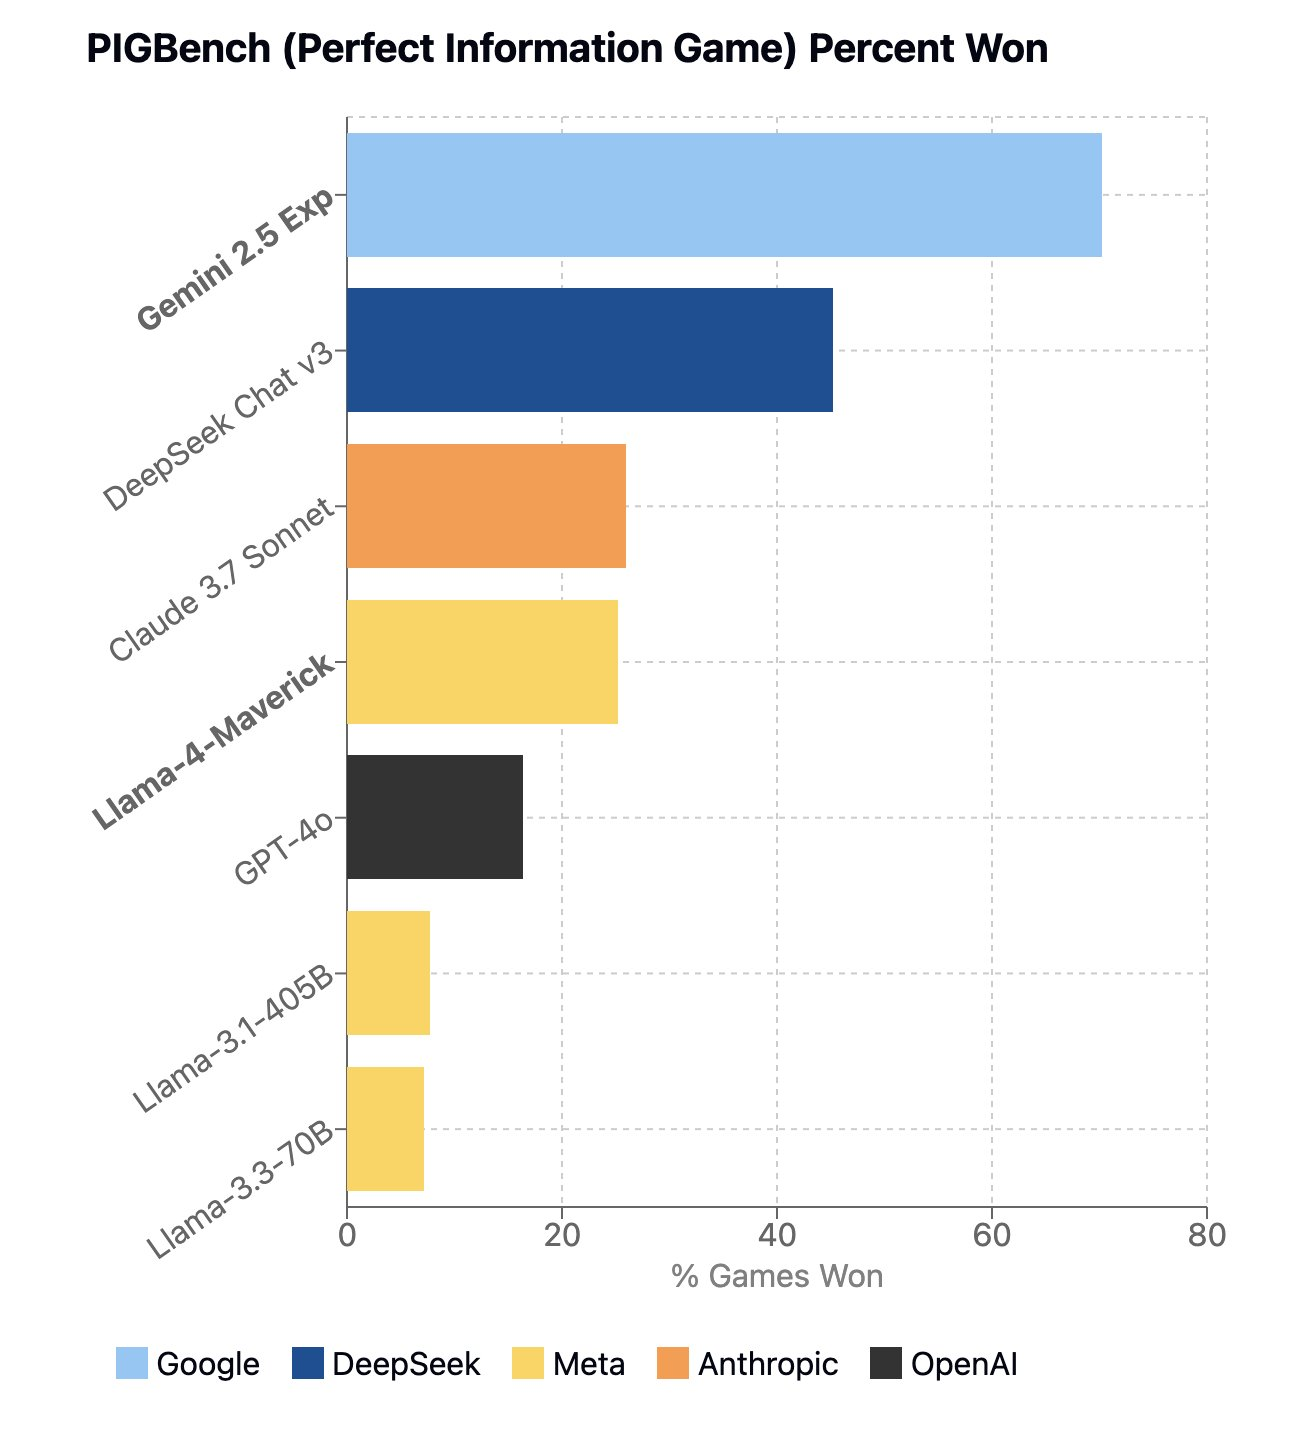
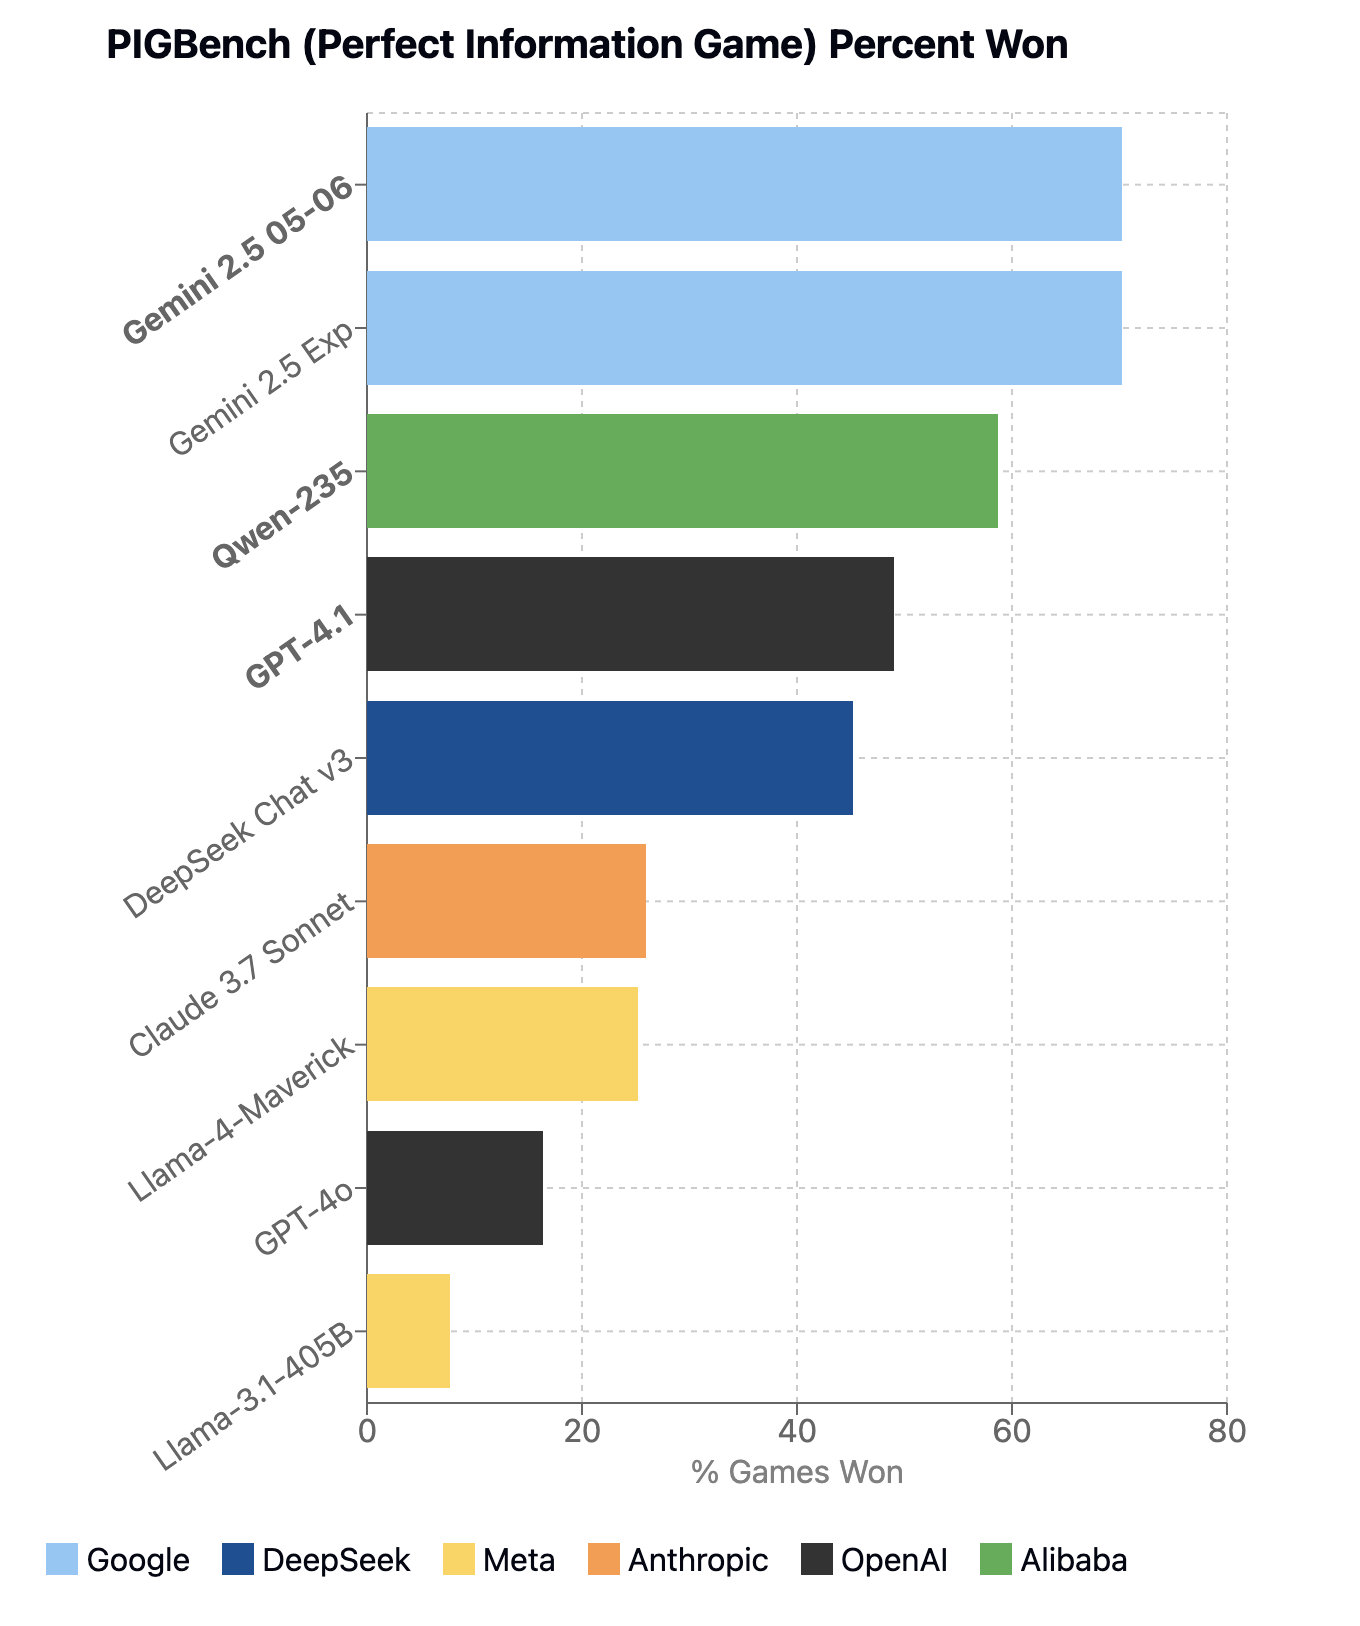
Updating image + readme.

diff --git a/readme.md b/readme.md
@@ -17,71 +17,182 @@ I've verified that the first player can always win both by running the games wit
 
 ## Stats
 
-Performance of some selected models (did not test against reasoning models from OpenAI):
+Performance of some selected models (did not test against reasoning models from OpenAI due to expense):
 ![performance of models](/image.png)
 
-Per game performance from Gemini 2.5 Experimental, with an average of ~70% correct:
+Per game performance from Gemini 2.5 pro 05/06, with an average win rate of ~70%:
 ```
-Statistics by Game:
+Game-specific Statistics:
 ================================================================================
-                               Win Rate (%)  Draw Rate (%)  Loss Rate (%)  Invalid Move Rate (%)  Total Games
-game_name                                                                                                    
-Book Nim                             100.00           0.00           0.00                   0.00            8
-Coin Counter                           0.00           0.00         100.00                   0.00            8
-Connect 3 (4x5)                       75.00           0.00          25.00                   0.00            8
-Connect 3 (5x4)                        0.00           0.00         100.00                   0.00            8
-Count to Twenty-One                  100.00           0.00           0.00                   0.00            8
-Domineering                           50.00           0.00          50.00                   0.00            8
-Grundy's Game                        100.00           0.00           0.00                   0.00            8
-Kayles                               100.00           0.00           0.00                   0.00            8
-Subtract a Square                    100.00           0.00           0.00                   0.00            8
-Tic Tac Toe (3x4, 3-in-a-row)         75.00           0.00          25.00                   0.00            8
-Tic Tac Toe (4x3, 3-in-a-row)         87.50          12.50           0.00                   0.00            8
-Turning Turtles                       25.00           0.00          75.00                   0.00            8
-Wythof's Nim                         100.00           0.00           0.00                   0.00            8
+                               wins_rate  losses_rate  draws_rate  invalid_moves_rate  total_games
+game_name                                                                                         
+Book Nim                           100.0          0.0         0.0                 0.0            8
+Coin Counter                        12.5         50.0         0.0                37.5            8
+Connect 3 (4x5)                     50.0         50.0         0.0                 0.0            8
+Connect 3 (5x4)                     25.0         75.0         0.0                 0.0            8
+Count to Twenty-One                100.0          0.0         0.0                 0.0            8
+Domineering                         12.5         87.5         0.0                 0.0            8
+Grundy's Game                      100.0          0.0         0.0                 0.0            8
+Kayles                             100.0          0.0         0.0                 0.0            8
+Subtract a Square                  100.0          0.0         0.0                 0.0            8
+Tic Tac Toe (3x4, 3-in-a-row)       62.5         25.0        12.5                 0.0            8
+Tic Tac Toe (4x3, 3-in-a-row)       87.5         12.5         0.0                 0.0            8
+Turning Turtles                     62.5         37.5         0.0                 0.0            8
+Wythof's Nim                       100.0          0.0         0.0                 0.0            8
 
+Overall Model Statistics:
+================================================================================
+Win Rate: 70.2%
+Loss Rate: 26.0%
+Draw Rate: 1.0%
+Invalid Move Rate: 2.9%
+Total Games: 104```
+
+
+Per game performance from Gemini 2.5 Experimental, with an average win rate ~70%:
 ```
+Game-specific Statistics:
+================================================================================
+                               wins_rate  losses_rate  draws_rate  invalid_moves_rate  total_games
+game_name                                                                                         
+Book Nim                           100.0          0.0         0.0                 0.0            8
+Coin Counter                         0.0        100.0         0.0                 0.0            8
+Connect 3 (4x5)                     75.0         25.0         0.0                 0.0            8
+Connect 3 (5x4)                      0.0        100.0         0.0                 0.0            8
+Count to Twenty-One                100.0          0.0         0.0                 0.0            8
+Domineering                         50.0         50.0         0.0                 0.0            8
+Grundy's Game                      100.0          0.0         0.0                 0.0            8
+Kayles                             100.0          0.0         0.0                 0.0            8
+Subtract a Square                  100.0          0.0         0.0                 0.0            8
+Tic Tac Toe (3x4, 3-in-a-row)       75.0         25.0         0.0                 0.0            8
+Tic Tac Toe (4x3, 3-in-a-row)       87.5          0.0        12.5                 0.0            8
+Turning Turtles                     25.0         75.0         0.0                 0.0            8
+Wythof's Nim                       100.0          0.0         0.0                 0.0            8
+
+Overall Model Statistics:
+================================================================================
+Win Rate: 70.2%
+Loss Rate: 28.8%
+Draw Rate: 1.0%
+Invalid Move Rate: 0.0%
+Total Games: 104
+```
+
+Performance from Qwen-235, with an average win rate of ~58%:
+```
+Game-specific Statistics:
+================================================================================
+                               wins_rate  losses_rate  draws_rate  invalid_moves_rate  total_games
+game_name                                                                                         
+Book Nim                            87.5          0.0         0.0                12.5            8
+Coin Counter                         0.0        100.0         0.0                 0.0            8
+Connect 3 (4x5)                     37.5         62.5         0.0                 0.0            8
+Connect 3 (5x4)                     25.0         75.0         0.0                 0.0            8
+Count to Twenty-One                100.0          0.0         0.0                 0.0            8
+Domineering                         25.0         62.5         0.0                12.5            8
+Grundy's Game                      100.0          0.0         0.0                 0.0            8
+Kayles                              75.0         12.5         0.0                12.5            8
+Subtract a Square                  100.0          0.0         0.0                 0.0            8
+Tic Tac Toe (3x4, 3-in-a-row)       37.5         62.5         0.0                 0.0            8
+Tic Tac Toe (4x3, 3-in-a-row)       87.5         12.5         0.0                 0.0            8
+Turning Turtles                      0.0         87.5         0.0                12.5            8
+Wythof's Nim                        87.5          0.0         0.0                12.5            8
+
+Overall Model Statistics:
+================================================================================
+Win Rate: 58.7%
+Loss Rate: 36.5%
+Draw Rate: 0.0%
+Invalid Move Rate: 4.8%
+Total Games: 104
+```
+
+
+Performance from GPT-4.1, with an average of 49% correct:
+```
+Game-specific Statistics:
+================================================================================
+                               wins_rate  losses_rate  draws_rate  invalid_moves_rate  total_games
+game_name                                                                                         
+Book Nim                            62.5         37.5         0.0                 0.0            8
+Coin Counter                         0.0        100.0         0.0                 0.0            8
+Connect 3 (4x5)                     87.5         12.5         0.0                 0.0            8
+Connect 3 (5x4)                     25.0         75.0         0.0                 0.0            8
+Count to Twenty-One                 25.0         62.5         0.0                12.5            8
+Domineering                         12.5         87.5         0.0                 0.0            8
+Grundy's Game                      100.0          0.0         0.0                 0.0            8
+Kayles                             100.0          0.0         0.0                 0.0            8
+Subtract a Square                  100.0          0.0         0.0                 0.0            8
+Tic Tac Toe (3x4, 3-in-a-row)       25.0         75.0         0.0                 0.0            8
+Tic Tac Toe (4x3, 3-in-a-row)       37.5         62.5         0.0                 0.0            8
+Turning Turtles                      0.0        100.0         0.0                 0.0            8
+Wythof's Nim                        62.5         37.5         0.0                 0.0            8
+
+Overall Model Statistics:
+================================================================================
+Win Rate: 49.0%
+Loss Rate: 50.0%
+Draw Rate: 0.0%
+Invalid Move Rate: 1.0%
+Total Games: 104
+```
+
 
 Per game performance from DeepSeekV3, with an average of ~45% correct:
 ```
-Statistics by Game:
+Game-specific Statistics:
 ================================================================================
-                               Win Rate (%)  Draw Rate (%)  Loss Rate (%)  Invalid Move Rate (%)  Total Games
-game_name                                                                                                    
-Book Nim                              12.50           0.00          87.50                   0.00            8
-Coin Counter                           0.00           0.00         100.00                   0.00            8
-Connect 3 (4x5)                        0.00           0.00         100.00                   0.00            8
-Connect 3 (5x4)                        0.00           0.00         100.00                   0.00            8
-Count to Twenty-One                   25.00           0.00          75.00                   0.00            8
-Domineering                            0.00           0.00         100.00                   0.00            8
-Grundy's Game                         62.50           0.00          37.50                   0.00            8
-Kayles                               100.00           0.00           0.00                   0.00            8
-Subtract a Square                     75.00           0.00          25.00                   0.00            8
-Tic Tac Toe (3x4, 3-in-a-row)         50.00           0.00          50.00                   0.00            8
-Tic Tac Toe (4x3, 3-in-a-row)         87.50           0.00          12.50                   0.00            8
-Turning Turtles                       87.50           0.00          12.50                   0.00            8
-Wythof's Nim                          87.50           0.00          12.50                   0.00            8
+                               wins_rate  losses_rate  draws_rate  invalid_moves_rate  total_games
+game_name                                                                                         
+Book Nim                            12.5         87.5         0.0                 0.0            8
+Coin Counter                         0.0        100.0         0.0                 0.0            8
+Connect 3 (4x5)                      0.0        100.0         0.0                 0.0            8
+Connect 3 (5x4)                      0.0        100.0         0.0                 0.0            8
+Count to Twenty-One                 25.0         75.0         0.0                 0.0            8
+Domineering                          0.0        100.0         0.0                 0.0            8
+Grundy's Game                       62.5         37.5         0.0                 0.0            8
+Kayles                             100.0          0.0         0.0                 0.0            8
+Subtract a Square                   75.0         25.0         0.0                 0.0            8
+Tic Tac Toe (3x4, 3-in-a-row)       50.0         50.0         0.0                 0.0            8
+Tic Tac Toe (4x3, 3-in-a-row)       87.5         12.5         0.0                 0.0            8
+Turning Turtles                     87.5         12.5         0.0                 0.0            8
+Wythof's Nim                        87.5         12.5         0.0                 0.0            8
+
+Overall Model Statistics:
+================================================================================
+Win Rate: 45.2%
+Loss Rate: 54.8%
+Draw Rate: 0.0%
+Invalid Move Rate: 0.0%
+Total Games: 104
 ```
 
-Per-game performance from Claude Sonnet 3.7, the next best performing model, with an average of ~25% correct:
+Per-game performance from Claude Sonnet 3.7, with an average of ~26% correct:
 
 ```
-
-Statistics by Game:
+Game-specific Statistics:
 ================================================================================
-                               Win Rate (%)  Draw Rate (%)  Loss Rate (%)  Invalid Move Rate (%)  Total Games
-game_name                                                                                                    
-Book Nim                               0.00           0.00         100.00                   0.00            8
-Coin Counter                           0.00           0.00         100.00                   0.00            8
-Connect 3 (4x5)                       12.50           0.00          87.50                   0.00            8
-Connect 3 (5x4)                       12.50           0.00          87.50                   0.00            8
-Count to Twenty-One                  100.00           0.00           0.00                   0.00            8
-Domineering                           25.00           0.00          75.00                   0.00            8
-Grundy's Game                         12.50           0.00          87.50                   0.00            8
-Kayles                                 0.00           0.00         100.00                   0.00            8
-Subtract a Square                     50.00           0.00          50.00                   0.00            8
-Tic Tac Toe (3x4, 3-in-a-row)         62.50           0.00          37.50                   0.00            8
-Tic Tac Toe (4x3, 3-in-a-row)         50.00           0.00          50.00                   0.00            8
-Turning Turtles                        0.00           0.00         100.00                   0.00            8
-Wythof's Nim                          12.50           0.00          87.50                   0.00            8
+                               wins_rate  losses_rate  draws_rate  invalid_moves_rate  total_games
+game_name                                                                                         
+Book Nim                             0.0        100.0         0.0                 0.0            8
+Coin Counter                         0.0        100.0         0.0                 0.0            8
+Connect 3 (4x5)                     12.5         87.5         0.0                 0.0            8
+Connect 3 (5x4)                     12.5         87.5         0.0                 0.0            8
+Count to Twenty-One                100.0          0.0         0.0                 0.0            8
+Domineering                         25.0         75.0         0.0                 0.0            8
+Grundy's Game                       12.5         87.5         0.0                 0.0            8
+Kayles                               0.0        100.0         0.0                 0.0            8
+Subtract a Square                   50.0         50.0         0.0                 0.0            8
+Tic Tac Toe (3x4, 3-in-a-row)       62.5         37.5         0.0                 0.0            8
+Tic Tac Toe (4x3, 3-in-a-row)       50.0         50.0         0.0                 0.0            8
+Turning Turtles                      0.0        100.0         0.0                 0.0            8
+Wythof's Nim                        12.5         87.5         0.0                 0.0            8
+
+Overall Model Statistics:
+================================================================================
+Win Rate: 26.0%
+Loss Rate: 74.0%
+Draw Rate: 0.0%
+Invalid Move Rate: 0.0%
+Total Games: 104
 ```
